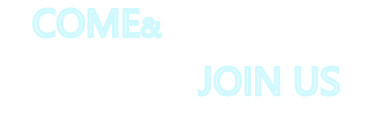
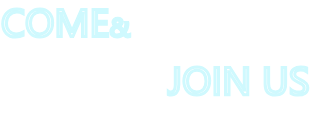
fs

Changed region(s): [[0.5226, 0.458, 1.0, 0.7328], [0.0, 0.0611, 0.4355, 0.3053]]

diff --git a/client/src/App.vue b/client/src/App.vue
@@ -99,13 +99,23 @@ export default {
       } else {
         this.$router.push(data.index)
       }
+    },
+    // 登出
+    logout () {
+      this.$axios.post('http://localhost:3000/user/Logout',{
+        account: '123456'
+      }).then(res => {
+        // this.$router.push('login')
+        console.log(res)
+        this.logined = !this.logined
+      }).catch(err => {
+        this.$message.error('出错啦，请稍后再试')
+      })
     }
   },
   // 保证header在登录注册时不会显示
   created: function () {
-    
     var path = this.$route.path.split('/')[1]
-    console.log(path)
     if (path === "login" || path === "register") {
       this.header_show = false
     } else {
@@ -251,7 +261,7 @@ a:hover { text-decoration:underline; }
     right: 30px;
     top: 118px;
     >ul >li{line-height: 51.5px; color: #CFF9FE;cursor: pointer;}
-    >ul >li:hover{ background-color:#EAEAEA;}
+    >ul >li:hover{ background-color:#EAEAEA; color: #666; font-weight: bold;}
     >ul >li:first-of-type{border-top-left-radius: 15px; border-top-right-radius: 15px;}
     >ul >li:last-of-type{border-bottom-left-radius: 15px; border-bottom-right-radius: 15px;}
   }

diff --git a/client/src/views/Login/index.vue b/client/src/views/Login/index.vue
@@ -21,7 +21,6 @@
 </template>
 
 <script>
-import Mock from '@/mock/mock.js'
 
 export default {
   data () {
@@ -38,6 +37,7 @@ export default {
         'password':123456
       }).then(res => {
         console.log(res);
+        this.$router.push('index')
       }).catch(err => {
         console.log(err);
       })
@@ -66,8 +66,9 @@ export default {
     position:absolute;
     &_motto{
       position: relative;
+      width: 330px;
       top: 135px;
-      left: -190px;
+      left: -10px;
     }
     &_left{
       box-sizing: border-box;

diff --git a/client/src/mock/mock.js b/client/src/mock/mock.js
@@ -17,8 +17,7 @@ Mock.mock('http://localhost:3000/user/Login', {
 });
 
 // 有需要在下面增加就行了
-Mock.mock('http://localhost:3000/user/register', {
+Mock.mock('http://localhost:3000/user/Logout', {
     //模拟返回数据自行定义
-
 
 });

diff --git a/client/src/views/Login/register.vue b/client/src/views/Login/register.vue
@@ -47,8 +47,9 @@ export default {
     position:absolute;  
     &_motto{
       position: relative;
+      width: 330px;
       top: 135px;
-      left: -190px;
+      left: -10px;
     }
     &_left{
       box-sizing: border-box;
